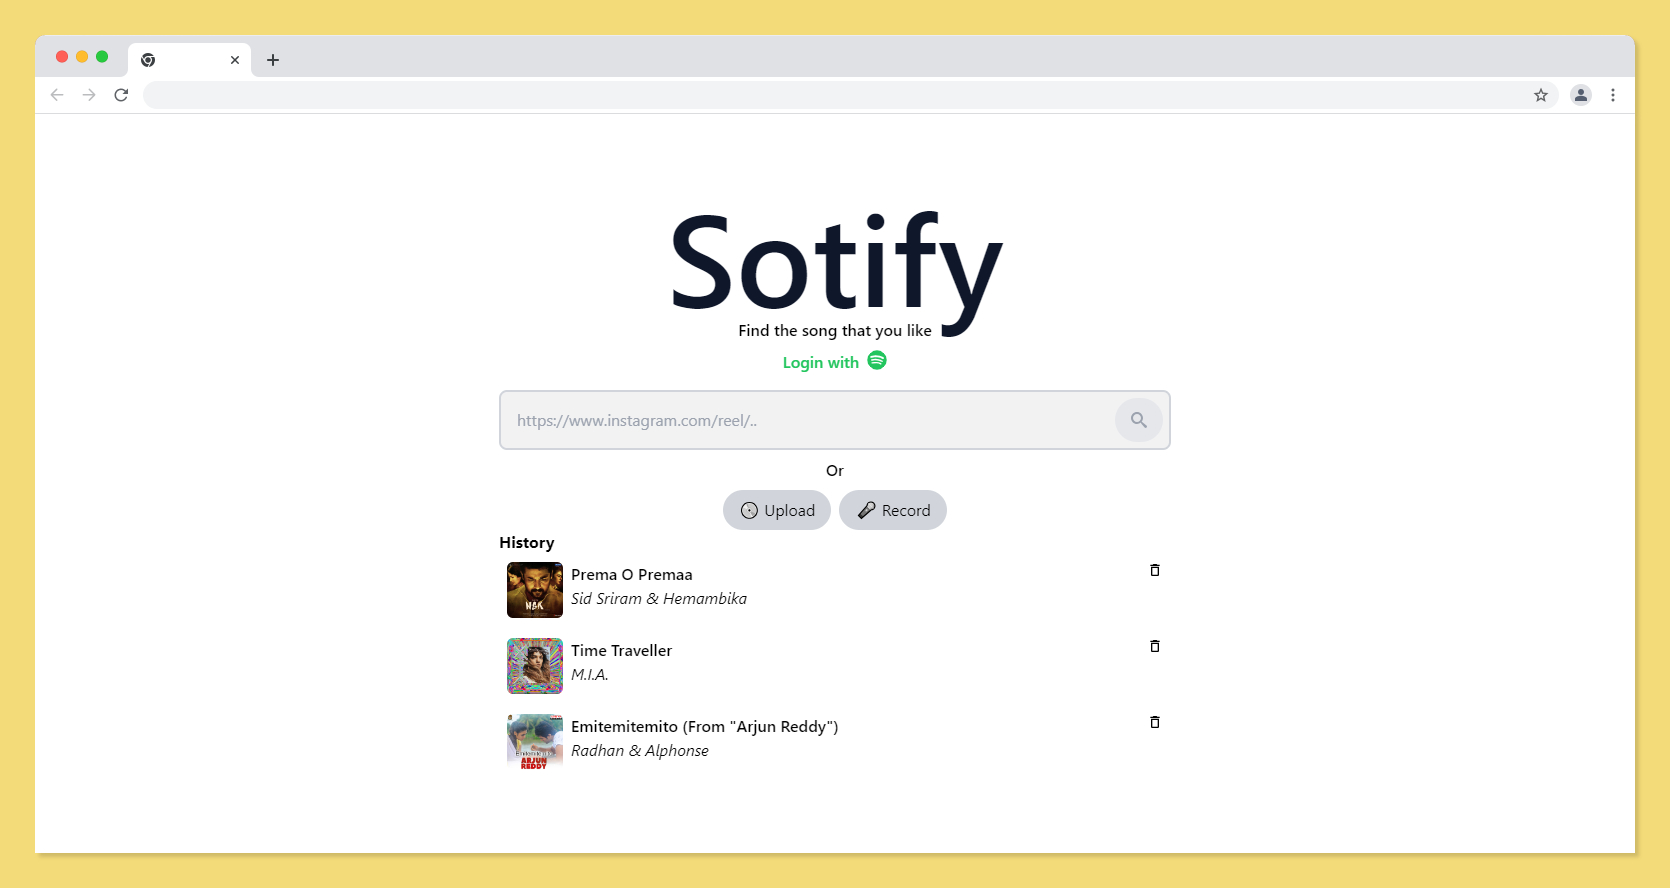
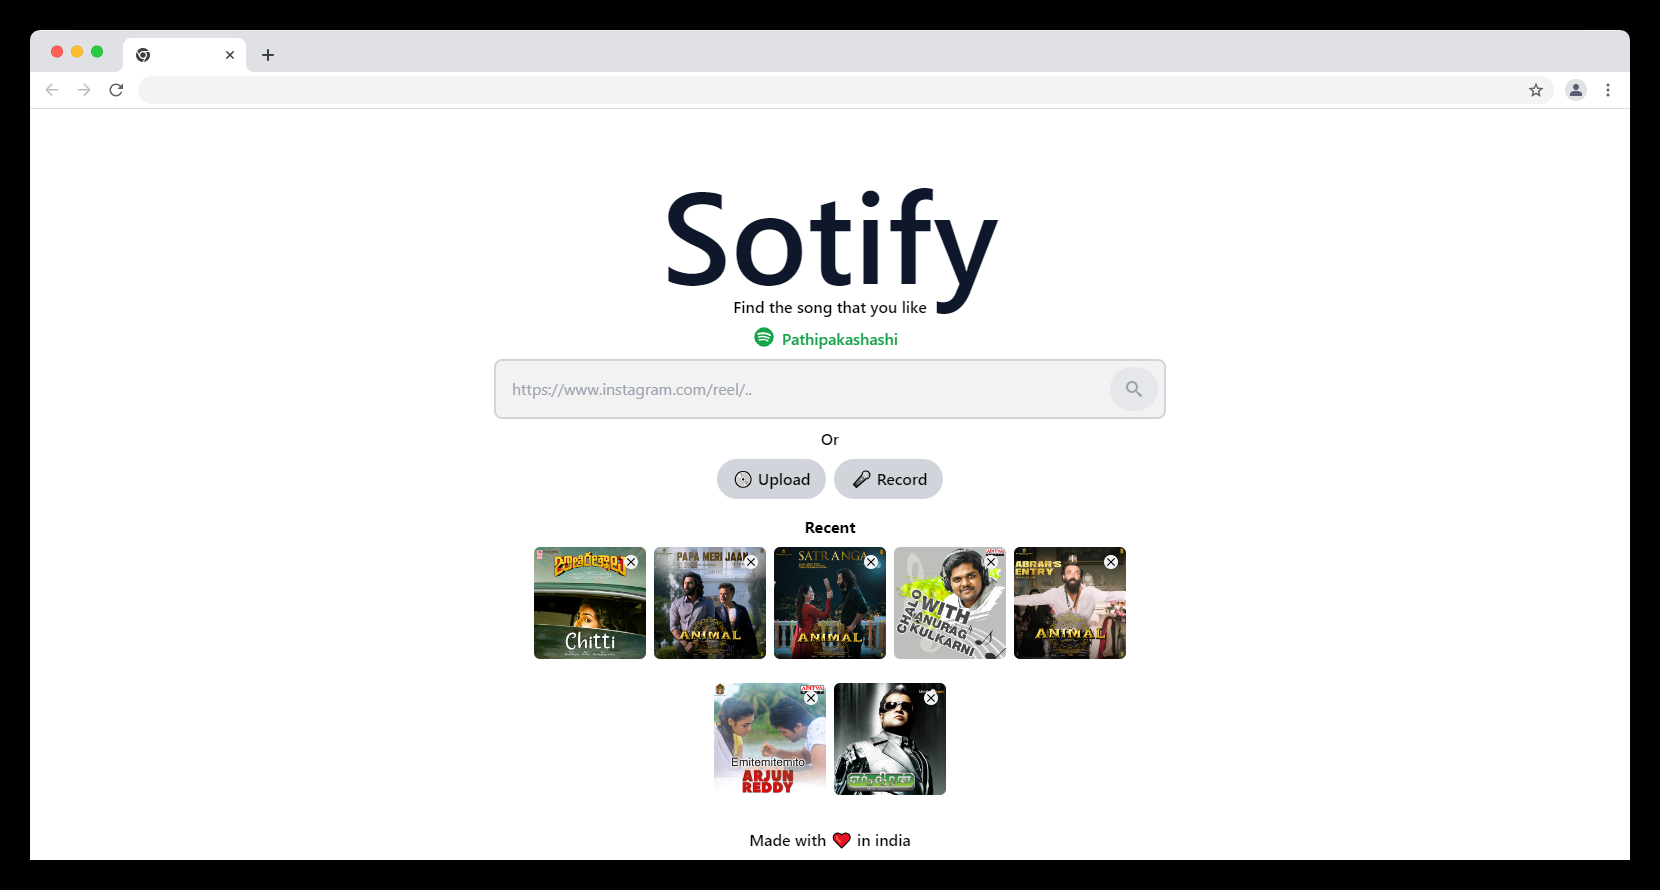
updated ui

diff --git a/components/HistoryComponent.jsx b/components/HistoryComponent.jsx
@@ -1,6 +1,6 @@
 import { useSotifyContext } from "@/context/SotifyContext";
 import React, { useState, useRef } from "react";
-import { MdDeleteOutline } from "react-icons/md";
+import { MdClose  } from "react-icons/md";
 // import { FaPlay,FaPause } from "react-icons/fa";
 
 export default function HistoryComponent() {
@@ -30,26 +30,37 @@ export default function HistoryComponent() {
   if (localHistoryData.length == 0) return "";
   return (
     <>
-      <p className="font-bold ">History</p>
-      <div className="grid gap-1">
+      <p className="font-bold text-center mt-4">Recent</p>
+      <div className="flex gap-2 justify-center flex-wrap">
         {localHistoryData?.map((song, i) => {
           return (
             <div
               key={i}
-              className="flex gap-2 hover:bg-gray-50 transition hover:ease-in-out p-2 rounded hover:cursor-pointer flex-wrap"
+              className="flex gap-2 hover:bg-gray-50 transition hover:ease-in-out py-2 rounded hover:cursor-pointer flex-wrap"
             >
               <div
-                className="w-14 h-14 rounded-md flex items-center justify-center"
+                className="w-20 h-20 sm:w-28 sm:h-28 rounded-md flex place-content-end"
                 style={{
                   backgroundImage: `url(${song?.cover_art})`,
                   backgroundSize: "cover",
                   backgroundRepeat: "no-repeat",
                 }}
+                onClick={() => {
+                  setRecognizeSong(song);
+                  openResultsDialog();
+                }}
+                
               >
+                <MdClose 
+                    onClick={(e) => {
+                      e.stopPropagation()
+                      onClickDelete(song?.title)}}
+                    className="bg-gray-100 m-2 rounded-full text-sm"
+                  />
                 {/* <audio src={song.preview_url} ref={audioRef}></audio>
               {isPlaying?<FaPause onClick={handlePlayPause}/>:<FaPlay onClick={handlePlayPause}/>} */}
               </div>
-              <div
+              {/* <div
                 className="font-sans flex-1"
               >
                 <div className="flex justify-between">
@@ -63,7 +74,7 @@ export default function HistoryComponent() {
                   />
                 </div>
                 <i>{song?.subtitle}</i>
-              </div>
+              </div> */}
             </div>
           );
         })}

diff --git a/app/page.js b/app/page.js
@@ -17,12 +17,12 @@ export default function Home() {
     //   backgroundImage: `url(/backdrop.jpg)`,
     // }}
     >
-      <div className="w-full backdrop-blur-lg flex items-center justify-center h-screen">
+      <div className="w-full backdrop-blur-lg flex items-center justify-center h-screen p-4 sm:p-0">
         <div className="w-full lg:max-w-2xl mx-auto">
-          <h1 className="text-9xl font-semibold text-slate-900  text-center font-sans">
+          <h1 className="text-8xl sm:text-9xl font-semibold text-slate-900  text-center font-sans">
             Sotify
           </h1>
-          <p className="text-center font-semibold font-sans">
+          <p className="text-center pr-3 sm:pr-0 font-semibold font-sans text-sm sm:text-base">
             Find the song that you like
           </p>
           <div className="text-center">
@@ -47,11 +47,12 @@ export default function Home() {
             <AudioRecorder />
           </div>
 
-          <PlaylistCards />
+          {/* <PlaylistCards /> */}
           <HistoryComponent />
           <ResultsDialog result={recognizedSong} />
         </div>
       </div>
+      <div className="fixed bottom-0 min-w-full text-center font-semibold p-2">Made with ❤ in india</div>
     </main>
   );
 }

diff --git a/components/AudioRecorder.jsx b/components/AudioRecorder.jsx
@@ -14,6 +14,7 @@ const AudioRecorder = () => {
   } = useSotifyContext();
   const startRecording = async () => {
     setRecognizeSong([]);
+    setErrorMsg('')
     navigator.mediaDevices
       .getUserMedia({ audio: true })
       .then((stream) => {
@@ -67,7 +68,7 @@ const AudioRecorder = () => {
         </div>
       ) : (
         <button
-          className=" cursor-pointer hover:opacity-95  duration-500 bg-gray-300  shadow-slate-100  font-lexend  p-2 px-4 flex text-black rounded-full items-center hover:bg-gray-200 "
+          className=" cursor-pointer hover:opacity-95  duration-500 bg-gray-300  shadow-slate-100  font-lexend  p-2 px-4 flex text-black rounded-full items-center hover:bg-gray-200 font-semibold"
           onClick={startRecording}
         >
           {"🎤 Record"}

diff --git a/components/FileUploader.jsx b/components/FileUploader.jsx
@@ -7,6 +7,7 @@ const FileUploader = () => {
     useSotifyContext();
   const handleFileChange = async (event) => {
     setRecognizeSong([]);
+    setErrorMsg('')
     const file = event.target.files[0];
     if (file) {
       const data = new FormData();
@@ -44,7 +45,7 @@ const FileUploader = () => {
         style={{
           cursor: "pointer",
         }}
-        className="cursor-pointer hover:opacity-95  duration-500 bg-gray-300  shadow-slate-100  font-lexend  p-2 px-4 flex text-black rounded-full items-center hover:bg-gray-200 "
+        className="cursor-pointer hover:opacity-95  duration-500 bg-gray-300  shadow-slate-100  font-lexend  p-2 px-4 flex text-black rounded-full items-center hover:bg-gray-200 font-semibold"
       >
         💿 Upload
       </label>

diff --git a/components/ResultsDialog.jsx b/components/ResultsDialog.jsx
@@ -86,7 +86,7 @@ function ResultsDialog({ result }) {
                   </div>
                   <div className="flex justify-center content-center gap-2 mt-2">
                     <Link
-                      href={`https://www.youtube.com/watch?v=${result?.meta_data?.youtube?.video_id}`}
+                      href={`https://www.youtube.com/watch?v=${result?.meta_data?.youtube?.id}`}
                       className="text-sm"
                     >
                       <div className="flex gap-1 p-2 rounded-md bg-red-100 text-red-600">

diff --git a/components/InstagramSearchComponent.jsx b/components/InstagramSearchComponent.jsx
@@ -43,6 +43,7 @@ export default function InstagramSearchComponent() {
 
   const submitLink = async () => {
     setRecognizeSong([]);
+    setErrorMsg('')
     setStatusOfFetch("Finding Song...");
     const response = await finderGet(link);
     
